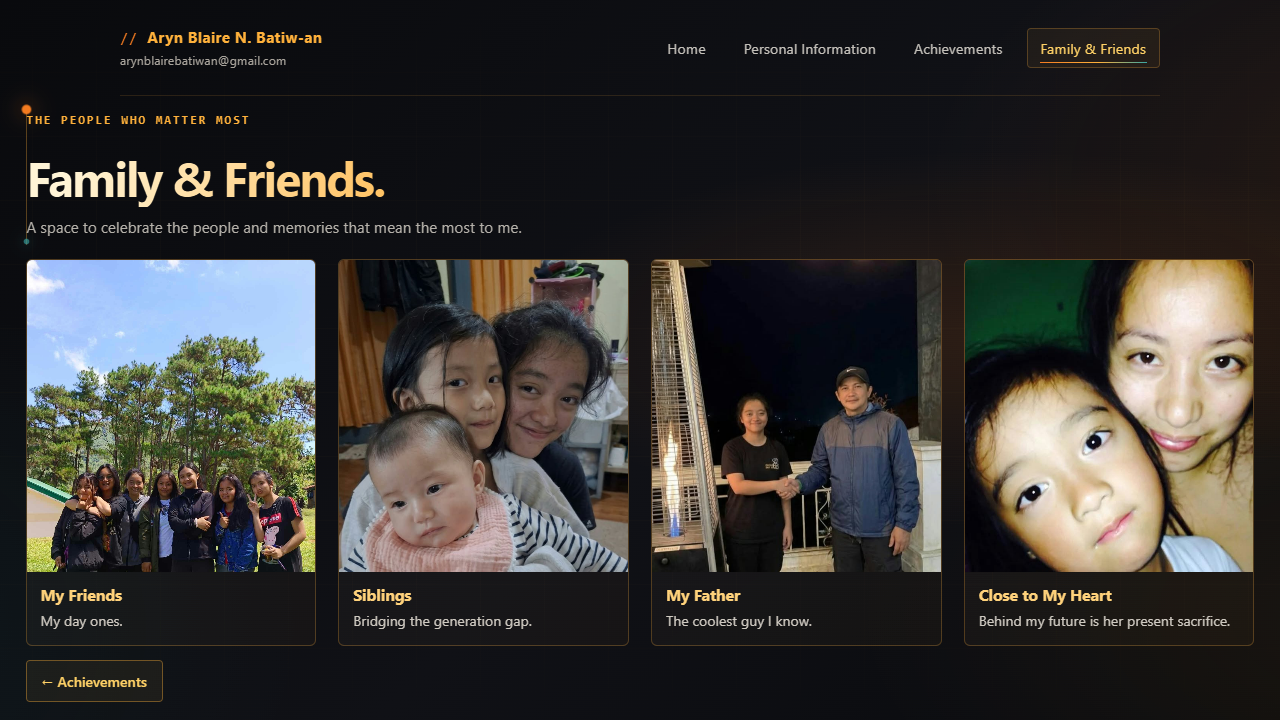
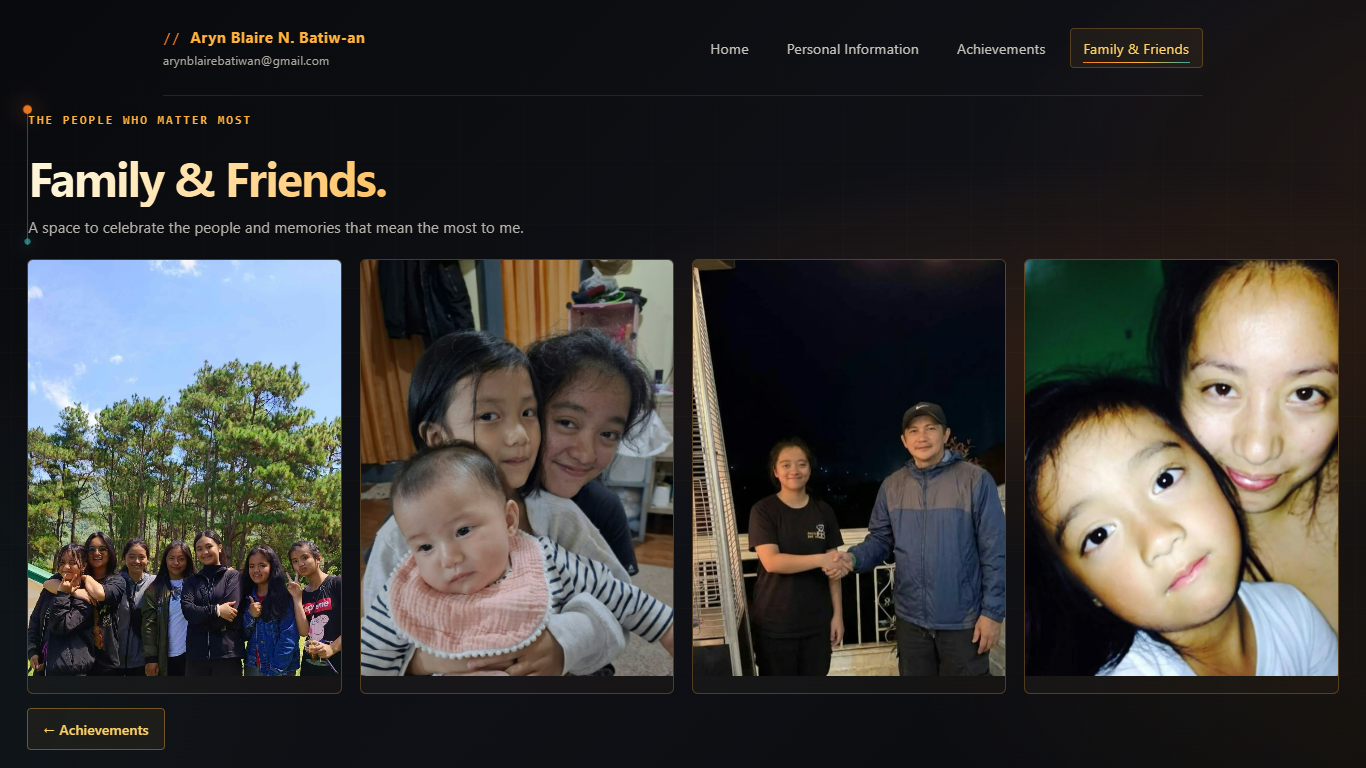
update
git commit

diff --git a/style.css b/style.css
@@ -2027,7 +2027,9 @@ body.family-view {
   height: 100svh;
   min-height: 0;
   flex-direction: column;
-  overflow: hidden;
+  overflow-y: auto;
+  overflow-x: hidden;
+  overscroll-behavior: contain;
 }
 
 body.family-view header {
@@ -2069,35 +2071,64 @@ body.family-view .family-gallery {
   width: 100%;
   max-width: none;
   height: auto;
-  grid-auto-columns: minmax(0, 1fr);
+  /* cards sit at the top of whatever space is left, never stretched */
+  align-content: start;
+  justify-content: center;
   grid-auto-flow: column;
+  grid-auto-columns: minmax(0, 1fr);
   grid-template-columns: none;
-  grid-template-rows: minmax(0, 1fr);
+  grid-template-rows: auto;
   margin: 0;
+  gap: 18px;
 }
 
 body.family-view .family-gallery__item {
   display: flex;
   min-height: 0;
+  overflow: hidden;
   flex-direction: column;
+  border-radius: 6px;
 }
 
+/*
+  One shared portrait frame for every photo, sized from the available height so
+  four cards plus captions always fit on screen without scrolling.
+*/
 body.family-view .family-gallery__item img {
-  flex: 1 1 0;
+  flex: none;
   width: 100%;
-  min-height: 0;
+  height: auto;
+  aspect-ratio: 3 / 4;
   object-fit: cover;
-  aspect-ratio: auto;
-  object-position: center 30%;
+  object-position: center 50%;
+}
+
+/* Each photo has its people in a different place, so aim the crop per photo */
+body.family-view .family-gallery__item:nth-child(1) img {
+  object-position: center 84%;
+}
+
+body.family-view .family-gallery__item:nth-child(2) img {
+  object-position: center 38%;
+}
+
+body.family-view .family-gallery__item:nth-child(3) img {
+  object-position: center 58%;
+}
+
+body.family-view .family-gallery__item:nth-child(4) img {
+  object-position: center 50%;
 }
 
 body.family-view .family-gallery__item figcaption {
   flex: none;
+  padding: 12px 14px 14px;
 }
 
 body.family-view .page-navigation {
   flex: none;
   width: 100%;
+  margin-top: auto;
   padding: 0 0 18px;
 }
 
